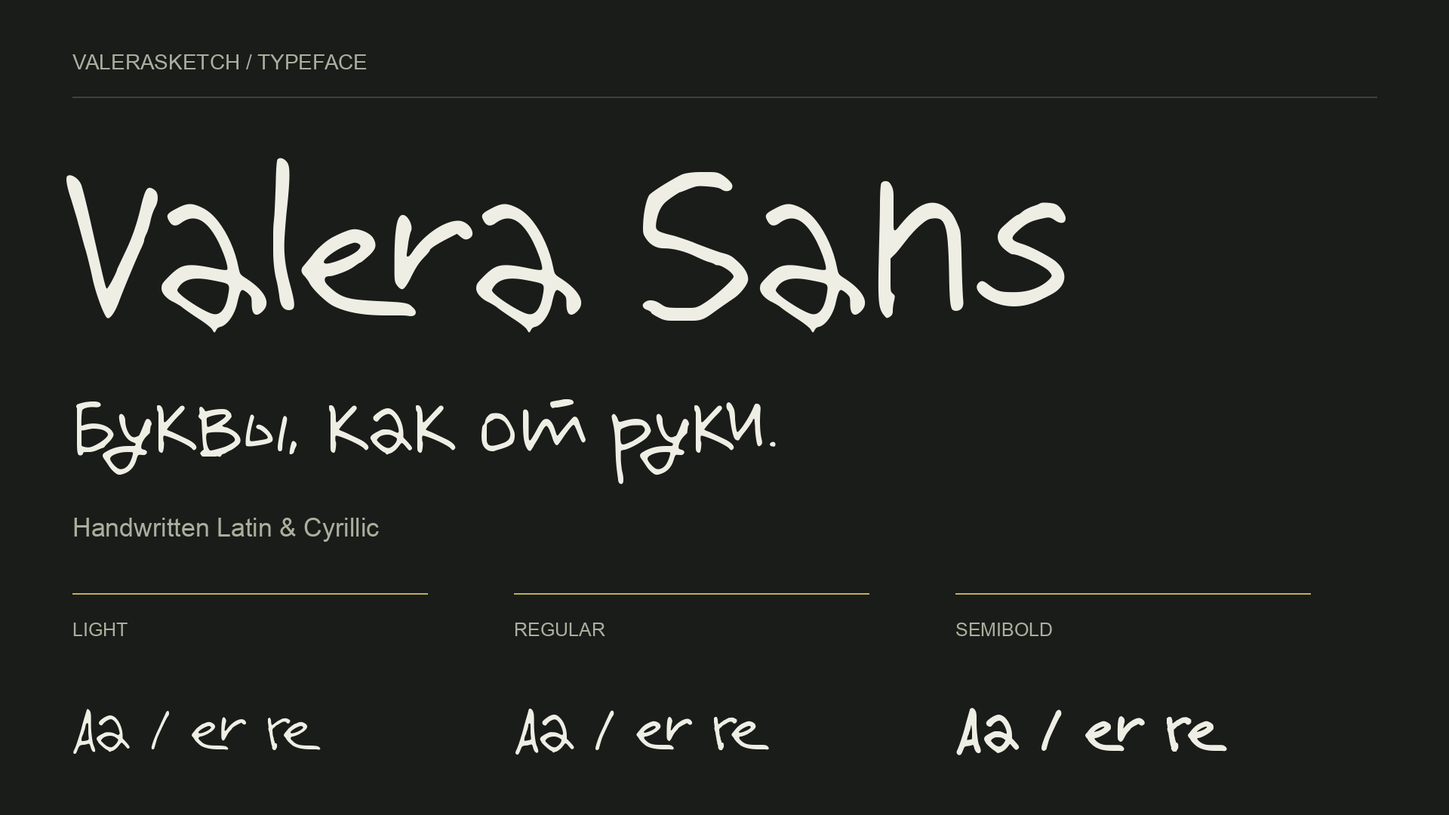
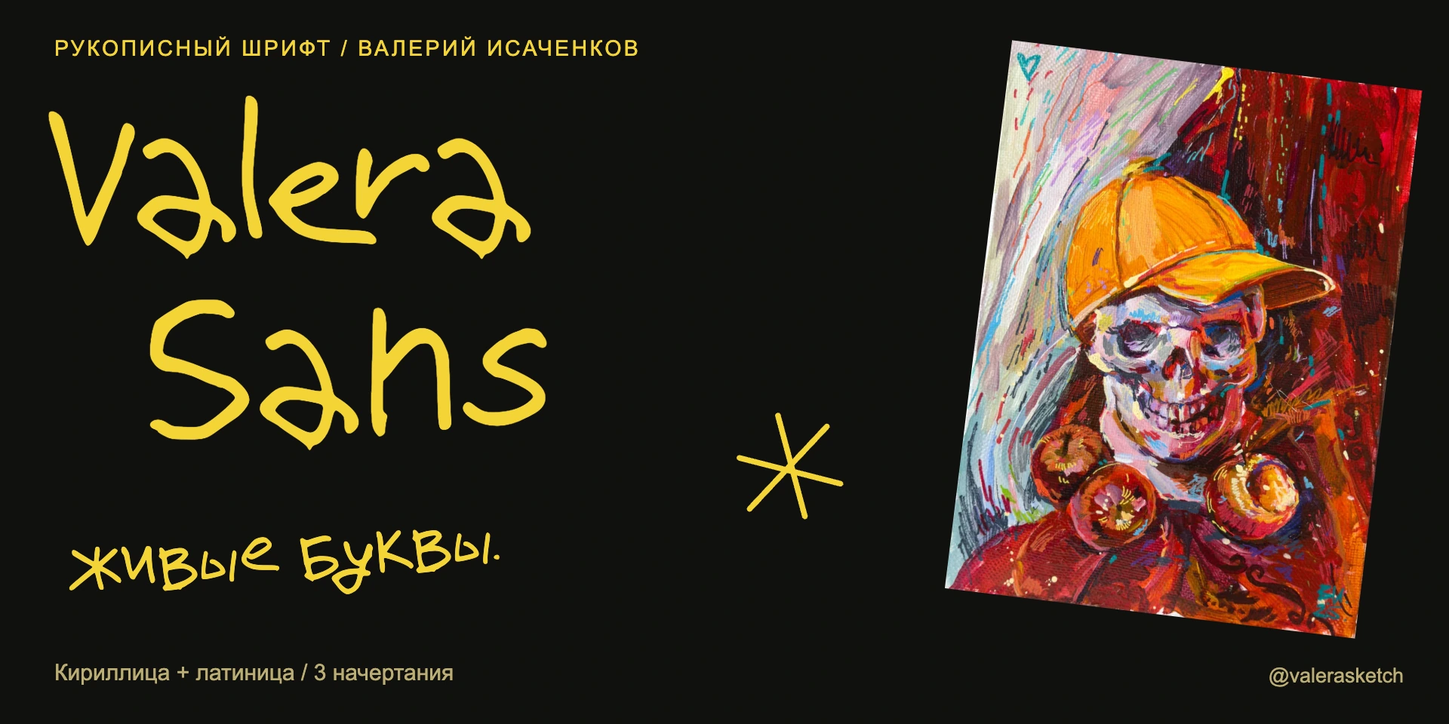
Show Valera Sans with the artist’s paintings and illustrated previews

diff --git a/specimen/index.html b/specimen/index.html
@@ -1,9 +1,20 @@
 <!doctype html><html lang="ru"><head><meta charset="utf-8"><meta name="viewport" content="width=device-width,initial-scale=1">
 <title>Valera Sans — почерк Валерия Исаченкова</title><meta name="description" content="Рукописный шрифт: кириллица и латиница, три начертания, варианты букв для разных сочетаний. Бесплатное коммерческое использование с указанием автора.">
+<meta property="og:type" content="website">
+<meta property="og:title" content="Valera Sans — живые буквы">
+<meta property="og:description" content="Рукописный шрифт художника Валерия Исаченкова. Кириллица, латиница и три начертания. Бесплатно, в том числе для коммерции, с указанием автора.">
+<meta property="og:url" content="https://azbezd.github.io/valera-sans/specimen/">
+<meta property="og:image" content="https://azbezd.github.io/valera-sans/specimen/social-preview.jpg">
+<meta property="og:image:width" content="1280"><meta property="og:image:height" content="640">
+<meta property="og:image:alt" content="Valera Sans жёлтыми рукописными буквами рядом с картиной Валерия Исаченкова «Молодость»">
+<meta name="twitter:card" content="summary_large_image"><meta name="twitter:title" content="Valera Sans — живые буквы">
+<meta name="twitter:description" content="Рукописный шрифт Валерия Исаченкова: кириллица, латиница и три начертания.">
+<meta name="twitter:image" content="https://azbezd.github.io/valera-sans/specimen/social-preview.jpg">
+<meta name="theme-color" content="#11110f">
 <link rel="stylesheet" href="../fonts/web/valera-sans.css"><link rel="stylesheet" href="style.css">
 </head><body><main>
 <header><a href="https://valerasketch.ru">valerasketch</a><nav><a href="https://github.com/azbezd/valera-sans">GitHub ↗</a><a href="https://github.com/azbezd/valera-sans/releases/tag/v0.5.2">Скачать 0.5.2</a></nav></header>
-<section class="hero"><p class="eyebrow">Почерк Валерия Исаченкова / 2026</p><h1>Valera Sans</h1><p class="intro">С листа бумаги — в твои слова.<br>Кириллица, латиница и три начертания.</p></section>
+<section class="hero"><div class="hero-copy"><p class="eyebrow">Почерк художника / Валерий Исаченков</p><h1>Valera<br><span>Sans</span></h1><p class="hero-note hand">Живые буквы.</p><p class="intro">С листа бумаги — в твои слова.<br>Кириллица, латиница и три начертания.</p><a class="try-link" href="#try-heading">Попробовать свой текст ↓</a></div><figure class="hero-art"><a href="https://valerasketch.ru/work/molodost/"><img src="artworks/molodost.webp" width="768" height="1026" alt="Молодость — картина Валерия Исаченкова, череп в жёлтой каске с гранатами" fetchpriority="high"></a><figcaption>«Молодость» / акрил, акриловые маркеры</figcaption></figure></section>
 <section class="tester" aria-labelledby="try-heading"><div class="section-head"><h2 id="try-heading">Попробуй написать</h2><span>170 символов / 180 глифов</span></div>
 <div class="controls"><div class="weights" role="group" aria-label="Толщина"><button data-weight="300" aria-pressed="false">Light</button><button data-weight="400" aria-pressed="true">Regular</button><button data-weight="600" aria-pressed="false">Semibold</button></div><label>Размер <input id="size" type="range" min="24" max="112" value="64"><output id="size-value">64 px</output></label></div>
 <textarea id="text" aria-label="Наберите текст шрифтом Valera Sans" spellcheck="false">Буквы, как от руки.
@@ -11,6 +22,7 @@ Valera / river / rare
 Краски, бумага, вещи вокруг.</textarea>
 <div class="switches"><label><input id="calt" type="checkbox" checked>Контекстная r после e</label><label><input id="kern" type="checkbox" checked>Кернинг</label><label><input id="tnum" type="checkbox">Табличные цифры</label><label>Трекинг <input id="tracking" type="range" min="-20" max="80" step="5" value="0"><output id="tracking-value">0.000 em</output></label></div>
 <p id="support" class="muted" role="status">Настоящий шрифт. Текст остаётся на твоём устройстве.</p></section>
+<section class="applications" aria-labelledby="applications-heading"><div class="section-head"><h2 id="applications-heading">Почерк в деле</h2><span>Живопись и графика автора + Valera Sans</span></div><div class="poster-pair"><article class="art-poster fruit-poster"><h3 class="hand">Краски,<br>бумага.</h3><a href="https://valerasketch.ru/work/granat-i-mandariny/"><img src="artworks/granat-i-mandariny.webp" width="768" height="503" loading="lazy" alt="Гранат и мандарины — живопись Валерия Исаченкова"></a><p>Гранат и мандарины / масло</p></article><article class="art-poster fish-poster"><a href="https://valerasketch.ru/work/forel-s-rozmarinom-i-limonom/"><img src="artworks/forel.webp" width="768" height="538" loading="lazy" alt="Форель с розмарином и лимоном — графика Валерия Исаченкова"></a><h3 class="hand">Вещи<br>вокруг.</h3><p>Форель с розмарином и лимоном / графика</p></article></div><p class="muted">Буквы в этих примерах — настоящий Valera Sans. <a href="https://t.me/valerasketch">Больше работ в Telegram автора ↗</a></p></section>
 <section class="weights-proof"><div class="section-head"><h2>Три начертания</h2><span>Статические начертания</span></div>
 <article><p class="eyebrow">LIGHT / 300</p><p class="hand light">Тихий вечер. Paint & paper.</p></article>
 <article><p class="eyebrow">REGULAR / 400</p><p class="hand regular">Тихий вечер. Paint & paper.</p></article>

diff --git a/specimen/style.css b/specimen/style.css
@@ -1,4 +1,22 @@
-:root{--paper:#f3f0e6;--ink:#252720;--muted:#747667;--line:#d0d0c2;--accent:#d6bc4c;color-scheme:light}
-@media(prefers-color-scheme:dark){:root{--paper:#20231f;--ink:#efeee4;--muted:#b0b3a2;--line:#464b40;--accent:#d6bc4c;color-scheme:dark}}
+:root{--paper:#11110f;--ink:#f4d437;--muted:#bcae74;--line:#514b2a;--accent:#f4d437;color-scheme:dark}
 *{box-sizing:border-box}body{margin:0;background:var(--paper);color:var(--ink);font:16px/1.5 system-ui,-apple-system,sans-serif}main{max-width:1240px;margin:auto;padding:28px 40px 36px}a{color:inherit;text-underline-offset:4px}header{display:flex;justify-content:space-between;align-items:center;gap:24px;border-bottom:1px solid var(--line);padding-bottom:22px;font-size:14px}header>a{text-decoration:none;font-weight:600}nav{display:flex;gap:28px}nav a{text-decoration:none}.eyebrow{font-size:11px;text-transform:uppercase;letter-spacing:.12em;color:var(--muted)}.hero{padding:54px 0 48px}h1{font:400 clamp(74px,12vw,160px)/1.2 'Valera Sans',sans-serif;margin:24px 0 18px;letter-spacing:0;font-kerning:normal}.intro{font-size:clamp(18px,2vw,24px);line-height:1.5;margin:0;color:var(--muted)}h2{font-size:22px;line-height:1.25;font-weight:500;margin:0}.section-head{display:flex;align-items:baseline;justify-content:space-between;gap:16px;border-top:1px solid var(--line);padding-top:24px;margin-bottom:24px}.section-head span{font-size:12px;color:var(--muted)}.controls{display:flex;justify-content:space-between;align-items:center;gap:20px;flex-wrap:wrap}button,input,textarea{font:inherit}.weights{display:flex;gap:7px}button{background:transparent;color:var(--ink);border:1px solid var(--line);padding:10px 15px;border-radius:4px;min-height:44px;cursor:pointer}button[aria-pressed=true]{background:var(--ink);color:var(--paper);border-color:var(--ink)}label{display:flex;align-items:center;gap:10px;font-size:12px}input[type=range]{accent-color:var(--ink);width:120px}input[type=checkbox]{accent-color:var(--ink)}output{font-variant-numeric:tabular-nums;min-width:48px}textarea{font:400 64px/1.5 'Valera Sans',sans-serif;font-synthesis:none;display:block;border:0;border-bottom:1px solid var(--line);padding:26px 0 22px;margin:0;width:100%;background:transparent;color:var(--ink);resize:vertical;min-height:300px;overflow-wrap:anywhere}.switches{display:flex;align-items:center;flex-wrap:wrap;gap:14px 26px;padding:20px 0 0}.switches input[type=range]{width:90px}.muted{font-size:12px;line-height:1.6;color:var(--muted)}.weights-proof{margin-top:52px}.weights-proof article{padding:12px 0 24px;border-bottom:1px solid var(--line)}.hand{font-family:'Valera Sans',sans-serif;font-synthesis:none;font-kerning:normal;font-feature-settings:'calt' 1}.weights-proof .hand{font-size:clamp(30px,4.5vw,56px);line-height:1.4;margin:12px 0 0;overflow-wrap:anywhere}.light{font-weight:300}.regular{font-weight:400}.semibold{font-weight:600}.details{display:grid;grid-template-columns:1fr 1fr;gap:60px;margin:52px 0}.details p:not(.hand){color:var(--muted);font-size:15px;line-height:1.65}.forms{font-size:64px;line-height:1.3;margin:24px 0}.downloads{padding:28px 0 40px;border-top:1px solid var(--line)}.downloads>p{max-width:700px;color:var(--muted)}.download{display:flex;justify-content:space-between;gap:32px;max-width:480px;margin-top:26px;border-bottom:2px solid var(--accent);padding:12px 0;text-decoration:none;font-size:20px}footer{display:flex;justify-content:space-between;flex-wrap:wrap;gap:12px;border-top:1px solid var(--line);padding-top:18px;font-size:12px;color:var(--muted)}button:focus-visible,a:focus-visible,input:focus-visible,textarea:focus-visible{outline:2px solid var(--accent);outline-offset:4px}
 @media(max-width:650px){main{padding:22px 20px 30px}header{gap:10px;font-size:12px}nav{gap:15px}.hero{padding:32px 0 36px}h1{margin:22px 0;font-size:76px}.section-head{align-items:flex-start;flex-direction:column;gap:10px}.controls{align-items:flex-start;flex-direction:column;gap:16px}textarea{font-size:36px;min-height:300px}.switches{align-items:flex-start;gap:16px}.details{grid-template-columns:1fr;gap:30px;margin:36px 0}.forms{font-size:54px}.weights-proof{margin-top:36px}.weights-proof .hand{font-size:34px}h2{font-size:20px}}
+
+/* Art direction: real paintings and actual type, in black and yellow. */
+.hero{display:grid;grid-template-columns:1.2fr 1fr;gap:8%;align-items:center;padding:40px 0 64px}
+.hero h1{font-size:clamp(104px,12vw,152px);line-height:1.03;margin:26px 0 12px}
+.hero h1 span{display:inline-block;margin-left:12%}
+.hero-note{font-size:clamp(35px,4.4vw,54px);line-height:1.2;margin:24px 0 32px;transform:rotate(-3deg);transform-origin:left center}
+.hero .intro{font-size:16px;line-height:1.55}.try-link{display:inline-block;margin-top:20px;font-size:14px}
+.hero-art{margin:0;padding:0 20px}.hero-art img{width:100%;height:auto;display:block;transform:rotate(5deg)}
+.hero-art figcaption{font-size:11px;line-height:1.5;color:var(--muted);margin-top:30px}
+.applications{margin:60px 0}.poster-pair{display:grid;grid-template-columns:1fr 1fr;gap:0}
+.art-poster{min-width:0;overflow:hidden;display:flex;flex-direction:column;padding:28px 32px 20px}
+.art-poster h3{font-size:clamp(54px,6.6vw,83px);line-height:1.1;font-weight:400;margin:4px 0 22px;transform:rotate(-3deg)}
+.art-poster img{width:100%;height:auto;display:block;transform:rotate(3deg)}
+.art-poster a{margin:0 12px 18px;display:block}.art-poster p{font-size:11px;line-height:1.5;margin:10px 0 0}
+.fruit-poster{background:var(--ink);color:var(--paper)}.fish-poster{border:1px solid var(--line)}
+.fish-poster a{margin-top:10px;margin-bottom:32px}.fish-poster img{transform:rotate(-4deg)}.fish-poster h3{margin:0 0 20px}
+.art-poster p{margin-top:auto;padding-top:14px}.applications>.muted{margin-top:20px}
+@media(max-width:800px){.hero{gap:4%}.hero h1{font-size:108px}.hero-art{padding:0 12px}.hero .eyebrow{max-width:235px}.art-poster{padding:24px}.art-poster h3{font-size:58px}}
+@media(max-width:650px){.hero{grid-template-columns:1fr;gap:32px;padding:32px 0 40px}.hero h1{font-size:clamp(92px,24vw,132px);line-height:1.03;margin:22px 0 12px}.hero-note{font-size:42px;margin:22px 0}.hero-art{width:76%;justify-self:end;padding-right:18px;margin:8px 0 0}.hero-art figcaption{margin-top:22px}.poster-pair{grid-template-columns:1fr}.art-poster{padding:26px 25px 22px}.art-poster h3{font-size:clamp(62px,16vw,92px)}.art-poster p{font-size:12px}.applications{margin:40px 0}.fish-poster h3{margin-top:4px}.try-link{min-height:44px;padding-top:6px}}

diff --git a/specimen/cover.html b/specimen/cover.html
@@ -1,0 +1,19 @@
+<!doctype html>
+<html lang="ru"><head><meta charset="utf-8"><meta name="viewport" content="width=device-width,initial-scale=1">
+<title>Valera Sans — авторские обложки</title>
+<link rel="stylesheet" href="../fonts/web/valera-sans.css">
+<style>
+*{box-sizing:border-box}body{margin:0;background:#11110f;color:#f4d437;font-family:Arial,sans-serif}main{width:1280px;height:640px;position:relative;overflow:hidden}.hand{font-family:'Valera Sans',sans-serif;font-kerning:normal;font-feature-settings:'calt' 1;font-synthesis:none;font-weight:400}p{margin:0}.kicker{position:absolute;left:48px;top:32px;font-size:19px;letter-spacing:.12em}.title{position:absolute;left:40px;top:88px;font-size:161px;line-height:1.05;z-index:2}.title span{display:block}.title span+span{margin-left:90px}.painting{position:absolute;right:52px;top:56px;width:365px;height:auto;transform:rotate(7deg)}.note{position:absolute;left:59px;top:445px;font-size:60px;transform:rotate(-4deg)}.footer{position:absolute;left:48px;bottom:34px;font-size:20px;color:#bcae74}.credit{position:absolute;right:40px;bottom:32px;font-size:18px;color:#bcae74}.flourish{position:absolute;left:646px;top:358px;width:106px;height:118px;transform:rotate(-10deg)}.features{display:none;gap:0}.poster{width:50%;height:640px;position:relative;overflow:hidden}.poster h2{font:400 94px/1.02 'Valera Sans',sans-serif;margin:0;position:absolute;z-index:2}.poster img{position:absolute;display:block;object-fit:contain}.poster .label{position:absolute;bottom:30px;left:34px;font-size:17px;line-height:1.5}.fruit{background:#f4d437;color:#11110f}.fruit h2{top:32px;left:34px;transform:rotate(-3deg)}.fruit img{width:490px;left:75px;top:232px;transform:rotate(4deg)}.fish{background:#11110f;color:#f4d437}.fish h2{top:389px;left:42px;transform:rotate(-4deg);font-size:82px}.fish img{width:490px;left:75px;top:30px;transform:rotate(-5deg)}.fish .label{color:#bcae74}.features:target{display:flex}.features:target~.cover{display:none}
+</style></head><body>
+<main id="examples" class="features" aria-label="Примеры Valera Sans с работами автора">
+<article class="poster fruit"><h2>Краски,<br>бумага.</h2><img src="artworks/granat-i-mandariny.webp" alt="Гранат и мандарины — живопись Валерия Исаченкова"><p class="label">ГРАНАТ И МАНДАРИНЫ / МАСЛО</p></article>
+<article class="poster fish"><img src="artworks/forel.webp" alt="Форель с розмарином и лимоном — графика Валерия Исаченкова"><h2>Вещи<br>вокруг.</h2><p class="label">ЖИВОПИСЬ + ПОЧЕРК / @VALERASKETCH</p></article>
+</main>
+<main class="cover" aria-label="Valera Sans — рукописный шрифт Валерия Исаченкова">
+<p class="kicker">РУКОПИСНЫЙ ШРИФТ / ВАЛЕРИЙ ИСАЧЕНКОВ</p>
+<img class="painting" src="artworks/molodost.webp" alt="Молодость — живопись Валерия Исаченкова">
+<h1 class="title hand" style="margin:0"><span>Valera</span><span>Sans</span></h1>
+<p class="note hand">Живые буквы.</p>
+<svg class="flourish" viewBox="0 0 106 118" fill="none" stroke="currentColor" stroke-width="5" stroke-linecap="round" aria-hidden="true"><path d="M50 8 58 100M10 39 94 77M11 85 91 25"/></svg>
+<p class="footer">Кириллица + латиница / 3 начертания</p><p class="credit">@valerasketch</p>
+</main></body></html>

diff --git a/index.html b/index.html
@@ -1,1 +1,12 @@
-<!doctype html><html lang="ru"><meta charset="utf-8"><meta name="viewport" content="width=device-width,initial-scale=1"><meta http-equiv="refresh" content="0; url=specimen/"><title>Valera Sans</title><a href="specimen/">Открыть шрифтовую пробу Valera Sans</a></html>
+<!doctype html><html lang="ru"><meta charset="utf-8"><meta name="viewport" content="width=device-width,initial-scale=1"><meta http-equiv="refresh" content="0; url=specimen/"><title>Valera Sans</title><meta property="og:type" content="website">
+<meta property="og:title" content="Valera Sans — живые буквы">
+<meta property="og:description" content="Рукописный шрифт художника Валерия Исаченкова. Кириллица, латиница и три начертания. Бесплатно, в том числе для коммерции, с указанием автора.">
+<meta property="og:url" content="https://azbezd.github.io/valera-sans/specimen/">
+<meta property="og:image" content="https://azbezd.github.io/valera-sans/specimen/social-preview.jpg">
+<meta property="og:image:width" content="1280"><meta property="og:image:height" content="640">
+<meta property="og:image:alt" content="Valera Sans жёлтыми рукописными буквами рядом с картиной Валерия Исаченкова «Молодость»">
+<meta name="twitter:card" content="summary_large_image"><meta name="twitter:title" content="Valera Sans — живые буквы">
+<meta name="twitter:description" content="Рукописный шрифт Валерия Исаченкова: кириллица, латиница и три начертания.">
+<meta name="twitter:image" content="https://azbezd.github.io/valera-sans/specimen/social-preview.jpg">
+<meta name="theme-color" content="#11110f">
+<a href="specimen/">Открыть шрифтовую пробу Valera Sans</a></html>

diff --git a/scripts/showcase.py b/scripts/showcase.py
@@ -1,28 +1,11 @@
-"""Render the README cover using the actual released font files."""
+"""Render HTML specimens with the actual font and encode README images as WebP."""
 from pathlib import Path
-import os
-from PIL import Image,ImageDraw,ImageFont
-
+import subprocess
+from PIL import Image
 ROOT=Path(__file__).resolve().parents[1]
-def label(size):
-    for name in [os.environ.get('LABEL_FONT',''),'/System/Library/Fonts/Supplemental/Arial.ttf','DejaVuSans.ttf','LiberationSans-Regular.ttf']:
-        if not name:continue
-        try:return ImageFont.truetype(name,size)
-        except OSError:pass
-    return ImageFont.load_default(size=size)
-def hand(style,size):return ImageFont.truetype(str(ROOT/f'fonts/ttf/ValeraSans-{style}.ttf'),size)
-im=Image.new('RGB',(1920,1080),'#191c18');d=ImageDraw.Draw(im)
-ink,muted,gold='#efeee5','#aaaF9e','#c5ad5e'
-d.text((96,66),'VALERASKETCH / TYPEFACE',font=label(28),fill=muted)
-d.line((96,128,1824,128),fill='#3d4438',width=2)
-d.text((83,420),'Valera Sans',font=hand('Regular',258),fill=ink,anchor='ls',features=['calt','kern'])
-d.text((96,598),'Буквы, как от руки.',font=hand('Regular',104),fill=ink,anchor='ls')
-d.text((96,680),'Handwritten Latin & Cyrillic',font=label(34),fill=muted)
-for i,(style,weight)in enumerate([('Light',300),('Regular',400),('Semibold',600)]):
-    x=96+i*585
-    d.line((x,786,x+470,786),fill=gold,width=2)
-    d.text((x,820),style.upper(),font=label(25),fill=muted)
-    d.text((x,994),'Аа / er re',font=hand(style,84),fill=ink,anchor='ls')
-out=ROOT/'docs/assets/banner.webp';out.parent.mkdir(exist_ok=True)
-im.save(out,'WEBP',lossless=True)
-print(out.relative_to(ROOT),out.stat().st_size,'bytes')
+subprocess.run(['node',str(ROOT/'scripts/render-showcase.cjs')],cwd=ROOT,check=True)
+for name in ['banner','features']:
+    image=Image.open(ROOT/f'qa/preview-{name}.png')
+    output=ROOT/f'docs/assets/{name}.webp'
+    image.save(output,'WEBP',quality=92,method=6)
+    print(output.relative_to(ROOT),image.size,output.stat().st_size,'bytes')

diff --git a/docs/PREVIEW.md b/docs/PREVIEW.md
@@ -1,0 +1,13 @@
+# Обложки проекта
+
+Обложка и примеры набраны настоящим Valera Sans поверх редактируемой HTML-композиции. Картины автора сохранены без перерисовки. Это оформление документации; версия файлов шрифта остаётся 0.5.2.
+
+- `specimen/cover.html` — исходный макет обложки; `#examples` открывает два примера применения.
+- `docs/assets/banner.webp`, `features.webp` — изображения для README, 1920 × 960.
+- `specimen/social-preview.jpg` — обложка ссылки, 1280 × 640, меньше 1 МБ.
+- `specimen/index.html` и корневая страница содержат Open Graph / Twitter Card с абсолютным адресом обложки на GitHub Pages.
+- [Работы и авторство](../specimen/artworks/README.md).
+
+Повторный рендер: установить зависимости Python и Node по [BUILD.md](BUILD.md), установить Chromium (`npx playwright install chromium`), затем выполнить `npm run showcase`. Для локального Chrome можно задать `CHROME_PATH`. Браузер загружает готовый файл шрифта, включая его кернинг и контекстные формы.
+
+GitHub использует отдельную настройку обложки репозитория: **Settings → General → Social preview → Edit → Upload an image**. Загрузить `specimen/social-preview.jpg`. Изображение в README само по себе не меняет обложку ссылки на репозиторий. [Документация GitHub](https://docs.github.com/en/repositories/managing-your-repositorys-settings-and-features/customizing-your-repository/customizing-your-repositorys-social-media-preview).

diff --git a/specimen/artworks/README.md b/specimen/artworks/README.md
@@ -1,0 +1,11 @@
+# Работы автора / Author's artwork
+
+Живопись и графика Валерия Исаченкова использованы здесь как примеры оформления шрифтом Valera Sans. Исходные изображения сохранены без перерисовки и изменения цвета.
+
+- [Молодость](https://valerasketch.ru/work/molodost/) — акрил, акриловые маркеры.
+- [Гранат и мандарины](https://valerasketch.ru/work/granat-i-mandariny/) — масло.
+- [Форель с розмарином и лимоном](https://valerasketch.ru/work/forel-s-rozmarinom-i-limonom/) — акварель, карандаши, чернила.
+
+© Валерий Исаченков. Разрешение на использование шрифта не распространяется на самостоятельное использование репродукций картин. Для такого использования свяжитесь с автором: [@valerasketch](https://t.me/valerasketch).
+
+The artworks illustrate the font in use. Font-use permissions do not grant separate rights to reuse these artwork reproductions; contact the artist for permission.

diff --git a/README.md b/README.md
@@ -6,7 +6,7 @@
 
 [Русский](README.md) · [English](README.en.md)
 
-![Образцы трёх начертаний Valera Sans](docs/assets/banner.webp)
+![Valera Sans — живые буквы и картина автора «Молодость»](docs/assets/banner.webp)
 
 [Скачать 0.5.2](https://github.com/azbezd/valera-sans/releases/tag/v0.5.2) · [Попробовать шрифт](https://azbezd.github.io/valera-sans/specimen/) · [Лицензия](LICENSE)
 
@@ -40,6 +40,12 @@
 ```
 
 Для сайта помести файл CSS в одну папку с тремя файлами WOFF2. [Подробнее об установке и использовании](docs/USAGE.md).
+
+## Почерк в деле
+
+Живопись, графика и буквы одного автора. Два примера применения Valera Sans: афиша с натюрмортом и подпись к рисунку.
+
+![Valera Sans с работами «Гранат и мандарины» и «Форель с розмарином и лимоном»](docs/assets/features.webp)
 
 ## Особенности шрифта
 

diff --git a/README.en.md b/README.en.md
@@ -6,7 +6,7 @@ Valery Isachenkov's handwriting, with a living line and both Cyrillic and Latin 
 
 [Русский](README.md) · [English](README.en.md)
 
-![Valera Sans: actual type in three weights](docs/assets/banner.webp)
+![Valera Sans lettering with the artist’s painting Youth](docs/assets/banner.webp)
 
 [Download 0.5.2](https://github.com/azbezd/valera-sans/releases/tag/v0.5.2) · [Try the font](https://azbezd.github.io/valera-sans/specimen/) · [License](LICENSE)
 
@@ -40,6 +40,12 @@ Download the [ready-to-use package](https://github.com/azbezd/valera-sans/releas
 ```
 
 Keep the CSS alongside the three WOFF2 files. [Installation and usage details](docs/USAGE.md).
+
+## The handwriting in use
+
+Painting, drawing and lettering by the same artist. Two applications of the actual Valera Sans font: an art poster and an illustrated caption.
+
+![Valera Sans with Pomegranate and Tangerines and Trout with Rosemary and Lemon](docs/assets/features.webp)
 
 ## Letters and behavior
 
